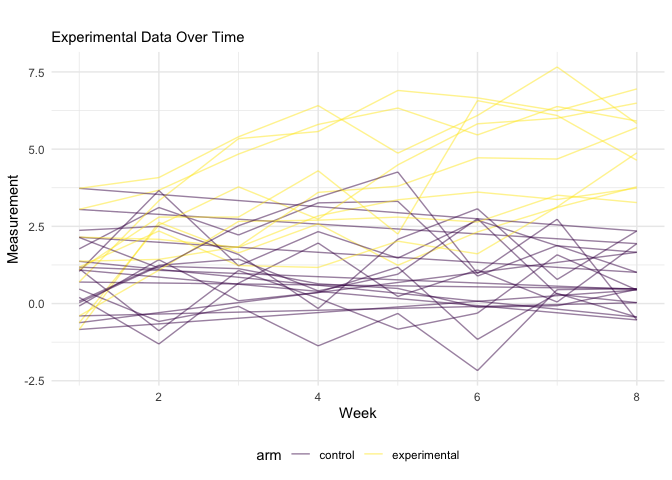
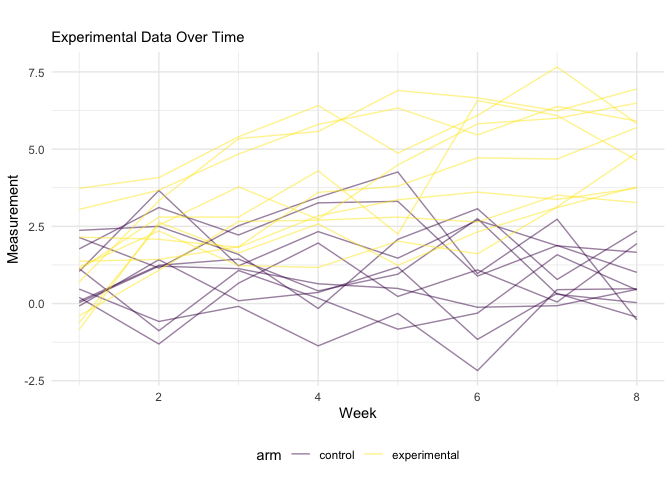
Knit and figure after revising spaghetti plot in Problem 1

diff --git a/p8105_hw5_sjz2120.md b/p8105_hw5_sjz2120.md
@@ -63,8 +63,9 @@ subjects in the control vs experimental group.
 
 ``` r
 exp_plot = exp_df %>%
+  unite("arm_subject", c(arm, subject_id), sep = "_", remove = FALSE) %>%
   ggplot(aes(x = week, y = observation)) +
-    geom_path(aes(color = arm, group = as.factor(subject_id)), alpha = 0.5) +
+    geom_path(aes(color = arm, group = as.factor(arm_subject)), alpha = 0.5) +
     labs(title = "",
          subtitle = "Experimental Data Over Time",
          x = "Week",
